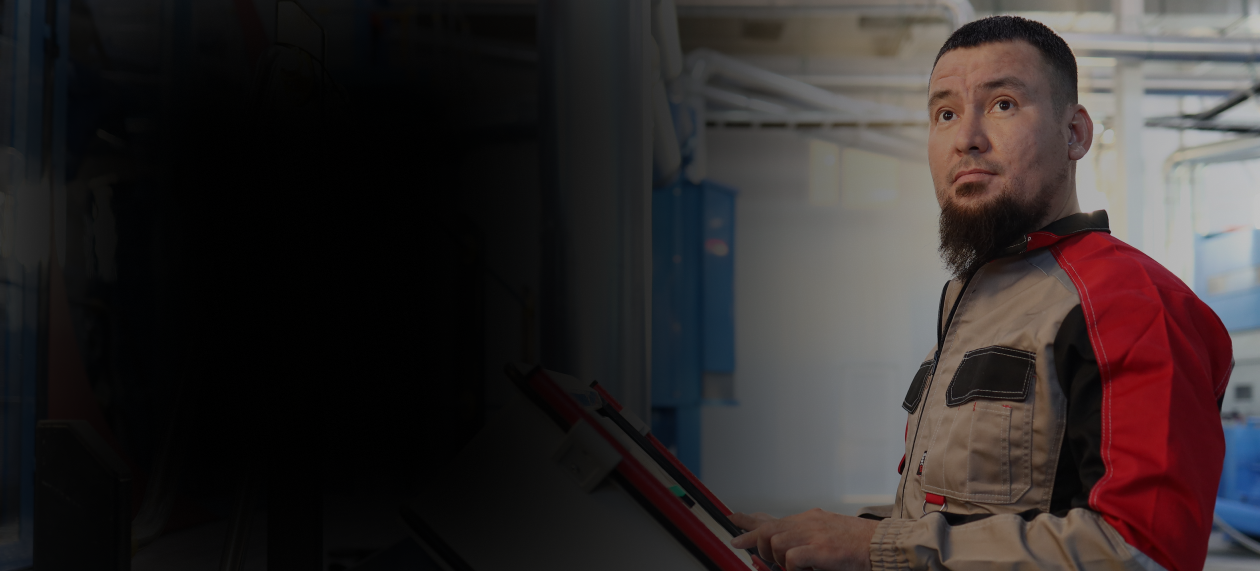
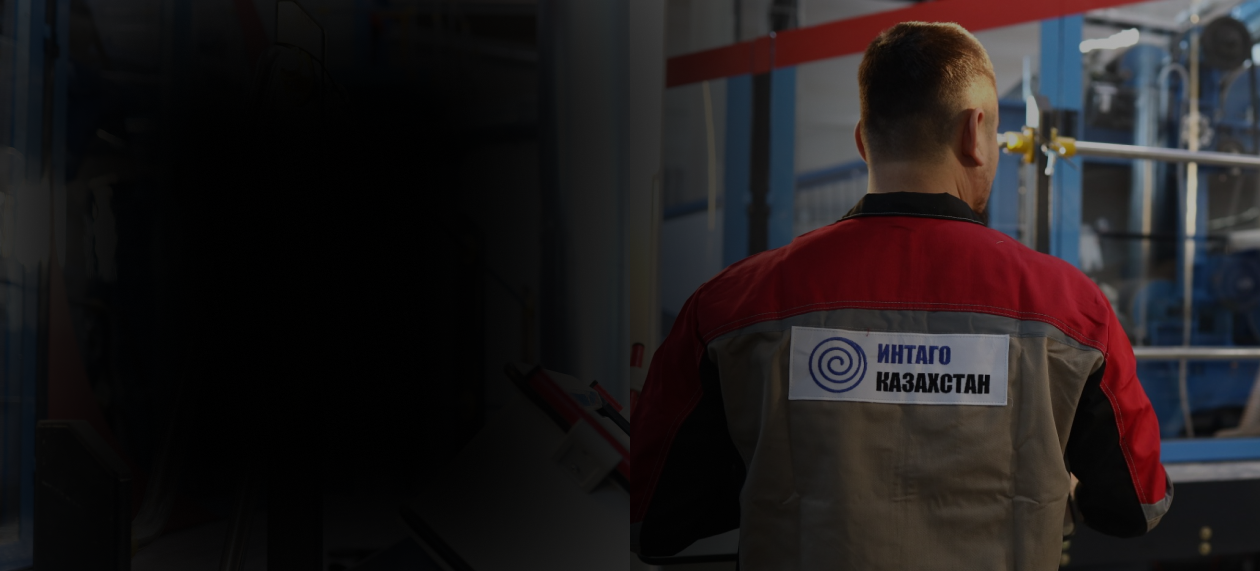
finfin

diff --git a/index.html b/index.html
@@ -135,13 +135,22 @@
         <p class="geo-hero__description">Геосинтетика «Интатекс» создаётся на высокотехнологичном оборудовании, отвечающем мировым стандартам качества.</p>
         
         <div class="geo-hero__buttons">
-            <a href="#popup:myform" class="geo-hero__btn geo-hero__btn--primary">Получить КП</a>
-            <a href="#popup:company" class="geo-hero__btn-video" id="video-btn">
-                <div class="geo-hero__video-preview" style="background-image: url('https://img.youtube.com/vi/pGuLvuKiVik/1.jpg')">
-                    <div class="geo-hero__play-icon"></div>
+            <div class="row">
+                <div class="col-6 py-2">
+                    <a href="#popup:myform" class="geo-hero__btn geo-hero__btn--primary w-100">Получить КП</a>
                 </div>
-                <span class="geo-hero__video-text">Экскурсия на производство</span>
-            </a>
+                <div class="col-6  py-1">
+                    <a href="#popup:company" class="geo-hero__btn-video" id="video-btn">
+                        <div class="geo-hero__video-preview" style="background-image: url('https://img.youtube.com/vi/pGuLvuKiVik/1.jpg')">
+                            <div class="geo-hero__play-icon"></div>
+                        </div>
+                        <span class="geo-hero__video-text">Экскурсия на производство</span>
+                    </a>
+                </div>
+            </div>
+            
+            
+
         </div>
     </div>
 
@@ -312,7 +321,7 @@
         
         <div class="product-details">
             <div class="product-description">
-                <p>Геотекстиль 150 «Интатекс» —  это высококачественное синтетическое полотно от казахстанского бренда «Интаго Казахстан», изготовленное из 100% полимерных волокон. Обладая оптимальной плотностью, он эффективно применяется в строительстве, дорожных работах, дренажных системах, сельском хозяйстве и ландшафтном дизайне. Надёжность, доступность и соответствие международным стандартам делают его идеальным решением для любых задач!</p>
+                <p>Геотекстиль Интатекс 150 —  это высококачественное синтетическое полотно от казахстанского бренда «Интаго Казахстан», изготовленное из 100% полимерных волокон. Обладая оптимальной плотностью, он эффективно применяется в строительстве, дорожных работах, дренажных системах, сельском хозяйстве и ландшафтном дизайне. Надёжность, доступность и соответствие международным стандартам делают его идеальным решением для любых задач!</p>
             </div>
             
             <h3 class="specs-title">Физико-механические характеристики</h3>
@@ -372,7 +381,7 @@
         
         <div class="product-details">
             <div class="product-description">
-                <p>Геотекстиль 200 «Интатекс» — это высококачественное синтетическое полотно от казахстанского бренда «Интаго Казахстан», изготовленное из 100% полимерных волокон. Обладая оптимальной плотностью, он эффективно применяется в строительстве, дорожных работах, дренажных системах, сельском хозяйстве и ландшафтном дизайне. Надёжность, доступность и соответствие международным стандартам делают его идеальным решением для любых задач!</p>
+                <p>Геотекстиль Интатекс 200 — это высококачественное синтетическое полотно от казахстанского бренда «Интаго Казахстан», изготовленное из 100% полимерных волокон. Обладая оптимальной плотностью, он эффективно применяется в строительстве, дорожных работах, дренажных системах, сельском хозяйстве и ландшафтном дизайне. Надёжность, доступность и соответствие международным стандартам делают его идеальным решением для любых задач!</p>
             </div>
             
             <h3 class="specs-title">Физико-механические характеристики</h3>
@@ -432,7 +441,7 @@
         
         <div class="product-details">
             <div class="product-description">
-                <p>Геотекстиль 250 «Интатекс» — это высококачественное синтетическое полотно от казахстанского бренда «Интаго Казахстан», изготовленное из 100% полимерных волокон. Обладая оптимальной плотностью, он эффективно применяется в строительстве, дорожных работах, дренажных системах, сельском хозяйстве и ландшафтном дизайне. Надёжность, доступность и соответствие международным стандартам делают его идеальным решением для любых задач!</p>
+                <p>Геотекстиль Интатекс 250 — это высококачественное синтетическое полотно от казахстанского бренда «Интаго Казахстан», изготовленное из 100% полимерных волокон. Обладая оптимальной плотностью, он эффективно применяется в строительстве, дорожных работах, дренажных системах, сельском хозяйстве и ландшафтном дизайне. Надёжность, доступность и соответствие международным стандартам делают его идеальным решением для любых задач!</p>
             </div>
             
             <h3 class="specs-title">Физико-механические характеристики</h3>
@@ -492,7 +501,7 @@
         
         <div class="product-details">
             <div class="product-description">
-                <p>Геотекстиль 300 «Интатекс» — это высококачественное синтетическое полотно от казахстанского бренда «Интаго Казахстан», изготовленное из 100% полимерных волокон. Обладая оптимальной плотностью, он эффективно применяется в строительстве, дорожных работах, дренажных системах, сельском хозяйстве и ландшафтном дизайне. Надёжность, доступность и соответствие международным стандартам делают его идеальным решением для любых задач!</p>
+                <p>Геотекстиль Интатекс 300 — это высококачественное синтетическое полотно от казахстанского бренда «Интаго Казахстан», изготовленное из 100% полимерных волокон. Обладая оптимальной плотностью, он эффективно применяется в строительстве, дорожных работах, дренажных системах, сельском хозяйстве и ландшафтном дизайне. Надёжность, доступность и соответствие международным стандартам делают его идеальным решением для любых задач!</p>
             </div>
             
             <h3 class="specs-title">Физико-механические характеристики</h3>
@@ -552,7 +561,7 @@
         
         <div class="product-details">
             <div class="product-description">
-                <p>Геотекстиль 350 «Интатекс» — это высококачественное синтетическое полотно от казахстанского бренда «Интаго Казахстан», изготовленное из 100% полимерных волокон. Обладая оптимальной плотностью, он эффективно применяется в строительстве, дорожных работах, дренажных системах, сельском хозяйстве и ландшафтном дизайне. Надёжность, доступность и соответствие международным стандартам делают его идеальным решением для любых задач!</p>
+                <p>Геотекстиль Интатекс 350 — это высококачественное синтетическое полотно от казахстанского бренда «Интаго Казахстан», изготовленное из 100% полимерных волокон. Обладая оптимальной плотностью, он эффективно применяется в строительстве, дорожных работах, дренажных системах, сельском хозяйстве и ландшафтном дизайне. Надёжность, доступность и соответствие международным стандартам делают его идеальным решением для любых задач!</p>
             </div>
             
             <h3 class="specs-title">Физико-механические характеристики</h3>
@@ -612,7 +621,7 @@
         
         <div class="product-details">
             <div class="product-description">
-                <p>Геотекстиль 375 «Интатекс» — это высококачественное синтетическое полотно от казахстанского бренда «Интаго Казахстан», изготовленное из 100% полимерных волокон. Обладая оптимальной плотностью, он эффективно применяется в строительстве, дорожных работах, дренажных системах, сельском хозяйстве и ландшафтном дизайне. Надёжность, доступность и соответствие международным стандартам делают его идеальным решением для любых задач!</p>
+                <p>Геотекстиль Интатекс 375 — это высококачественное синтетическое полотно от казахстанского бренда «Интаго Казахстан», изготовленное из 100% полимерных волокон. Обладая оптимальной плотностью, он эффективно применяется в строительстве, дорожных работах, дренажных системах, сельском хозяйстве и ландшафтном дизайне. Надёжность, доступность и соответствие международным стандартам делают его идеальным решением для любых задач!</p>
             </div>
             
             <h3 class="specs-title">Физико-механические характеристики</h3>
@@ -672,7 +681,7 @@
         
         <div class="product-details">
             <div class="product-description">
-                <p>Геотекстиль 400 «Интатекс» — это высококачественное синтетическое полотно от казахстанского бренда «Интаго Казахстан», изготовленное из 100% полимерных волокон. Обладая оптимальной плотностью, он эффективно применяется в строительстве, дорожных работах, дренажных системах, сельском хозяйстве и ландшафтном дизайне. Надёжность, доступность и соответствие международным стандартам делают его идеальным решением для любых задач!</p>
+                <p>Геотекстиль Интатекс 400 — это высококачественное синтетическое полотно от казахстанского бренда «Интаго Казахстан», изготовленное из 100% полимерных волокон. Обладая оптимальной плотностью, он эффективно применяется в строительстве, дорожных работах, дренажных системах, сельском хозяйстве и ландшафтном дизайне. Надёжность, доступность и соответствие международным стандартам делают его идеальным решением для любых задач!</p>
             </div>
             
             <h3 class="specs-title">Физико-механические характеристики</h3>
@@ -732,7 +741,7 @@
         
         <div class="product-details">
             <div class="product-description">
-                <p>Геотекстиль 450 «Интатекс» — это высококачественное синтетическое полотно от казахстанского бренда «Интаго Казахстан», изготовленное из 100% полимерных волокон. Обладая оптимальной плотностью, он эффективно применяется в строительстве, дорожных работах, дренажных системах, сельском хозяйстве и ландшафтном дизайне. Надёжность, доступность и соответствие международным стандартам делают его идеальным решением для любых задач!</p>
+                <p>Геотекстиль Интатекс 450 — это высококачественное синтетическое полотно от казахстанского бренда «Интаго Казахстан», изготовленное из 100% полимерных волокон. Обладая оптимальной плотностью, он эффективно применяется в строительстве, дорожных работах, дренажных системах, сельском хозяйстве и ландшафтном дизайне. Надёжность, доступность и соответствие международным стандартам делают его идеальным решением для любых задач!</p>
             </div>
             
             <h3 class="specs-title">Физико-механические характеристики</h3>
@@ -792,7 +801,7 @@
         
         <div class="product-details">
             <div class="product-description">
-                <p>Геотекстиль 500 «Интатекс» — это высококачественное синтетическое полотно от казахстанского бренда «Интаго Казахстан», изготовленное из 100% полимерных волокон. Обладая оптимальной плотностью, он эффективно применяется в строительстве, дорожных работах, дренажных системах, сельском хозяйстве и ландшафтном дизайне. Надёжность, доступность и соответствие международным стандартам делают его идеальным решением для любых задач!</p>
+                <p>Геотекстиль Интатекс 500 — это высококачественное синтетическое полотно от казахстанского бренда «Интаго Казахстан», изготовленное из 100% полимерных волокон. Обладая оптимальной плотностью, он эффективно применяется в строительстве, дорожных работах, дренажных системах, сельском хозяйстве и ландшафтном дизайне. Надёжность, доступность и соответствие международным стандартам делают его идеальным решением для любых задач!</p>
             </div>
             
             <h3 class="specs-title">Физико-механические характеристики</h3>
@@ -853,7 +862,7 @@
         
         <div class="product-details">
             <div class="product-description">
-                <p>Геотекстиль 550 «Интатекс» — это высококачественное синтетическое полотно от казахстанского бренда «Интаго Казахстан», изготовленное из 100% полимерных волокон. Обладая оптимальной плотностью, он эффективно применяется в строительстве, дорожных работах, дренажных системах, сельском хозяйстве и ландшафтном дизайне. Надёжность, доступность и соответствие международным стандартам делают его идеальным решением для любых задач!</p>
+                <p>Геотекстиль Интатекс 550 — это высококачественное синтетическое полотно от казахстанского бренда «Интаго Казахстан», изготовленное из 100% полимерных волокон. Обладая оптимальной плотностью, он эффективно применяется в строительстве, дорожных работах, дренажных системах, сельском хозяйстве и ландшафтном дизайне. Надёжность, доступность и соответствие международным стандартам делают его идеальным решением для любых задач!</p>
             </div>
             
             <h3 class="specs-title">Физико-механические характеристики</h3>
@@ -914,7 +923,7 @@
         
         <div class="product-details">
             <div class="product-description">
-                <p>Геотекстиль 600 «Интатекс» — это высококачественное синтетическое полотно от казахстанского бренда «Интаго Казахстан», изготовленное из 100% полимерных волокон. Обладая оптимальной плотностью, он эффективно применяется в строительстве, дорожных работах, дренажных системах, сельском хозяйстве и ландшафтном дизайне. Надёжность, доступность и соответствие международным стандартам делают его идеальным решением для любых задач!</p>
+                <p>Геотекстиль Интатекс 600 — это высококачественное синтетическое полотно от казахстанского бренда «Интаго Казахстан», изготовленное из 100% полимерных волокон. Обладая оптимальной плотностью, он эффективно применяется в строительстве, дорожных работах, дренажных системах, сельском хозяйстве и ландшафтном дизайне. Надёжность, доступность и соответствие международным стандартам делают его идеальным решением для любых задач!</p>
             </div>
             
             <h3 class="specs-title">Физико-механические характеристики</h3>
@@ -975,7 +984,7 @@
         
         <div class="product-details">
             <div class="product-description">
-                <p>Геотекстиль 650 «Интатекс» — это высококачественное синтетическое полотно от казахстанского бренда «Интаго Казахстан», изготовленное из 100% полимерных волокон. Обладая оптимальной плотностью, он эффективно применяется в строительстве, дорожных работах, дренажных системах, сельском хозяйстве и ландшафтном дизайне. Надёжность, доступность и соответствие международным стандартам делают его идеальным решением для любых задач!</p>
+                <p>Геотекстиль Интатекс 650 — это высококачественное синтетическое полотно от казахстанского бренда «Интаго Казахстан», изготовленное из 100% полимерных волокон. Обладая оптимальной плотностью, он эффективно применяется в строительстве, дорожных работах, дренажных системах, сельском хозяйстве и ландшафтном дизайне. Надёжность, доступность и соответствие международным стандартам делают его идеальным решением для любых задач!</p>
             </div>
             
             <h3 class="specs-title">Физико-механические характеристики</h3>
@@ -1036,7 +1045,7 @@
         
         <div class="product-details">
             <div class="product-description">
-                <p>Геотекстиль 700 «Интатекс» — это высококачественное синтетическое полотно от казахстанского бренда «Интаго Казахстан», изготовленное из 100% полимерных волокон. Обладая оптимальной плотностью, он эффективно применяется в строительстве, дорожных работах, дренажных системах, сельском хозяйстве и ландшафтном дизайне. Надёжность, доступность и соответствие международным стандартам делают его идеальным решением для любых задач!</p>
+                <p>Геотекстиль Интатекс 700 — это высококачественное синтетическое полотно от казахстанского бренда «Интаго Казахстан», изготовленное из 100% полимерных волокон. Обладая оптимальной плотностью, он эффективно применяется в строительстве, дорожных работах, дренажных системах, сельском хозяйстве и ландшафтном дизайне. Надёжность, доступность и соответствие международным стандартам делают его идеальным решением для любых задач!</p>
             </div>
             
             <h3 class="specs-title">Физико-механические характеристики</h3>
@@ -1087,7 +1096,7 @@
 
     <div class="product-card" data-target="pe750">
         <div class="product-header">
-            <h1 class="product-title">Геотекстиль нетканый Интатекс 700</h1>
+            <h1 class="product-title">Геотекстиль нетканый Интатекс 750</h1>
         </div>
         
         <div class="product-image-container">
@@ -1096,7 +1105,7 @@
         
         <div class="product-details">
             <div class="product-description">
-                <p>Геотекстиль 750 «Интатекс» — это высококачественное синтетическое полотно от казахстанского бренда «Интаго Казахстан», изготовленное из 100% полимерных волокон. Обладая оптимальной плотностью, он эффективно применяется в строительстве, дорожных работах, дренажных системах, сельском хозяйстве и ландшафтном дизайне. Надёжность, доступность и соответствие международным стандартам делают его идеальным решением для любых задач!</p>
+                <p>Геотекстиль Интатекс 750 — это высококачественное синтетическое полотно от казахстанского бренда «Интаго Казахстан», изготовленное из 100% полимерных волокон. Обладая оптимальной плотностью, он эффективно применяется в строительстве, дорожных работах, дренажных системах, сельском хозяйстве и ландшафтном дизайне. Надёжность, доступность и соответствие международным стандартам делают его идеальным решением для любых задач!</p>
             </div>
             
             <h3 class="specs-title">Физико-механические характеристики</h3>
@@ -1156,7 +1165,7 @@
         
         <div class="product-details">
             <div class="product-description">
-                <p>Геотекстиль 800 «Интатекс» — это высококачественное синтетическое полотно от казахстанского бренда «Интаго Казахстан», изготовленное из 100% полимерных волокон. Обладая оптимальной плотностью, он эффективно применяется в строительстве, дорожных работах, дренажных системах, сельском хозяйстве и ландшафтном дизайне. Надёжность, доступность и соответствие международным стандартам делают его идеальным решением для любых задач!</p>
+                <p>Геотекстиль Интатекс 800 — это высококачественное синтетическое полотно от казахстанского бренда «Интаго Казахстан», изготовленное из 100% полимерных волокон. Обладая оптимальной плотностью, он эффективно применяется в строительстве, дорожных работах, дренажных системах, сельском хозяйстве и ландшафтном дизайне. Надёжность, доступность и соответствие международным стандартам делают его идеальным решением для любых задач!</p>
             </div>
             
             <h3 class="specs-title">Физико-механические характеристики</h3>
@@ -1212,7 +1221,7 @@
         </div>
         
         <div class="product-image-container">
-            <img src="https://static.tildacdn.com/tild6335-3533-4461-b539-333935343035/150.png" alt="Геотекстиль Интатекс ПП 150" class="product-image">
+            <img src="assets/img/products/150.png" alt="Геотекстиль Интатекс ПП 150" class="product-image">
         </div>
         
         <div class="product-details">
@@ -1276,7 +1285,7 @@
 	    </div>
 	        
         <div class="product-image-container">
-            <img src="https://static.tildacdn.com/tild3032-3233-4730-a365-373337353732/200.png" alt="Геотекстиль Интатекс ПП 200" class="product-image">
+            <img src="assets/img/products/200.png" alt="Геотекстиль Интатекс ПП 200" class="product-image">
         </div>
         
         <div class="product-details">
@@ -1340,7 +1349,7 @@
         </div>
         
         <div class="product-image-container">
-            <img src="https://static.tildacdn.com/tild3737-6563-4164-b633-303730326636/250.png" alt="Геотекстиль Интатекс ПП 250" class="product-image">
+            <img src="assets/img/products/250.png" alt="Геотекстиль Интатекс ПП 250" class="product-image">
         </div>
         
         <div class="product-details">
@@ -1404,7 +1413,7 @@
         </div>
         
         <div class="product-image-container">
-            <img src="https://static.tildacdn.com/tild6464-3166-4137-b636-633736363535/300.png" alt="Геотекстиль Интатекс ПП 300" class="product-image">
+            <img src="assets/img/products/300.png" alt="Геотекстиль Интатекс ПП 300" class="product-image">
         </div>
         
         <div class="product-details">
@@ -1468,7 +1477,7 @@
         </div>
         
         <div class="product-image-container">
-            <img src="https://static.tildacdn.com/tild6461-3664-4436-b735-633237346237/350.png" alt="Геотекстиль Интатекс ПП 350" class="product-image">
+            <img src="assets/img/products/350.png" alt="Геотекстиль Интатекс ПП 350" class="product-image">
         </div>
         
         <div class="product-details">
@@ -1532,7 +1541,7 @@
         </div>
         
         <div class="product-image-container">
-            <img src="https://static.tildacdn.com/tild6461-3664-4436-b735-633237346237/350.png" alt="Геотекстиль Интатекс ПП 375" class="product-image">
+            <img src="assets/img/products/375.png" alt="Геотекстиль Интатекс ПП 375" class="product-image">
         </div>
         
         <div class="product-details">
@@ -1595,7 +1604,7 @@
         </div>
         
         <div class="product-image-container">
-            <img src="https://static.tildacdn.com/tild3832-3664-4238-a638-393537303532/400.png" alt="Геотекстиль Интатекс ПП 400" class="product-image">
+            <img src="assets/img/products/400.png" alt="Геотекстиль Интатекс ПП 400" class="product-image">
         </div>
         
         <div class="product-details">
@@ -1659,7 +1668,7 @@
         </div>
         
         <div class="product-image-container">
-            <img src="https://static.tildacdn.com/tild3836-3966-4361-a363-373961346332/450.png" alt="Геотекстиль Интатекс ПП 450" class="product-image">
+            <img src="assets/img/products/450.png" alt="Геотекстиль Интатекс ПП 450" class="product-image">
         </div>
         
         <div class="product-details">
@@ -1723,7 +1732,7 @@
         </div>
         
         <div class="product-image-container">
-            <img src="https://static.tildacdn.com/tild6662-6361-4630-b836-646336363335/500.png" alt="Геотекстиль Интатекс ПП 500" class="product-image">
+            <img src="assets/img/products/500.png" alt="Геотекстиль Интатекс ПП 500" class="product-image">
         </div>
         
         <div class="product-details">
@@ -1787,7 +1796,7 @@
         </div>
         
         <div class="product-image-container">
-            <img src="https://static.tildacdn.com/tild3135-3237-4232-b731-343636346661/550.png" alt="Геотекстиль Интатекс ПП 550" class="product-image">
+            <img src="assets/img/products/550.png" alt="Геотекстиль Интатекс ПП 550" class="product-image">
         </div>
         
         <div class="product-details">
@@ -1851,7 +1860,7 @@
         </div>
         
         <div class="product-image-container">
-            <img src="https://static.tildacdn.com/tild3862-6361-4238-b263-333231336330/600.png" alt="Геотекстиль Интатекс ПП 600" class="product-image">
+            <img src="assets/img/products/600.png" alt="Геотекстиль Интатекс ПП 600" class="product-image">
         </div>
         
         <div class="product-details">
@@ -1915,7 +1924,7 @@
         </div>
         
         <div class="product-image-container">
-            <img src="https://static.tildacdn.com/tild3862-6361-4238-b263-333231336330/600.png" alt="Геотекстиль Интатекс ПП 700" class="product-image">
+            <img src="assets/img/products/700.png" alt="Геотекстиль Интатекс ПП 700" class="product-image">
         </div>
         
         <div class="product-details">
@@ -1979,7 +1988,7 @@
         </div>
         
         <div class="product-image-container">
-            <img src="https://static.tildacdn.com/tild3862-6361-4238-b263-333231336330/600.png" alt="Геотекстиль Интатекс ПП 800" class="product-image">
+            <img src="assets/img/products/800.png" alt="Геотекстиль Интатекс ПП 800" class="product-image">
         </div>
         
         <div class="product-details">
@@ -2043,7 +2052,7 @@
     <div class="row m-0">
     <div class="col-8 col-md-6">
         <h1 class="metrics-block__title">Наши показатели</h1>
-        <h3 class="metob2">Объем производства трех линий — 15 000 000 м2 в год</h3>
+        <h3 class="metob2">Объем производства — 15 000 000 м2 в год</h3>
         <div class="row mt-5">
             <div class="col-12 col-md-4 mt-3">
                 <div class="row m-0">
@@ -2118,13 +2127,13 @@
         </div>
         
         <div class="stat-card">
-            <div class="stat-card__value" data-counter="4000">0</div>
+            <div class="stat-card__value" data-counter="4000">0<span>Т</span></div>
             <p class="stat-card__label">продукции в год</p>
         </div>
         
         <!-- Второй ряд -->
         <div class="stat-card">
-            <div class="stat-card__value" data-counter="500">0<span>+</span></div>
+            <div class="stat-card__value" data-counter="1000">0<span>+</span></div>
             <p class="stat-card__label">отгрузок в год</p>
         </div>
         
@@ -2161,7 +2170,7 @@
                     <i class="bi bi-nut"></i>
                   </div>
                   <h3>Современный завод с новейшим оборудованием</h3>
-                  <p>Производительность линий, которые мы наращиваем с каждым годом, позволяет осуществлять поставки больших объемов продукции по всему СНГ в кратчайшие сроки.</p>
+                  <p>В 2024 году мы запустили новое производство, оснащённое передовыми технологиями, что позволяет выпускать продукцию высокого качества в больших объёмах</p>
                 </div>
             </div>
         </div>

diff --git a/assets/css/header.css b/assets/css/header.css
@@ -710,7 +710,7 @@ body {
     .geo-hero {
         min-height: auto;
         padding-bottom: 40px;
-        background-image: url(../img/mobile.png);
+        background: #E8E4D7;
         background-size: cover;
     }
     
@@ -782,7 +782,11 @@ body {
     .geo-hero__video-element {
         display: none;
     }
+    .geo-hero__buttons {
+        margin-bottom: 10px;
+    }
 }
+
 
 
 /* Стили попапа таблицы 1-2 popup table*/
@@ -1521,7 +1525,7 @@ body {
         }
         .bgmetric {
             background-image: url(../img/mobilemetric.png);
-            background-size: 100% 100%;
+            background-size: cover;
         }
         .metric-card__value {
             font-size: 17px;
@@ -1531,6 +1535,10 @@ body {
             text-align: left;
         }
     }
+
+     @media (max-width: 480px) {
+
+     }
 
 
     @media (max-width: 768px) {
